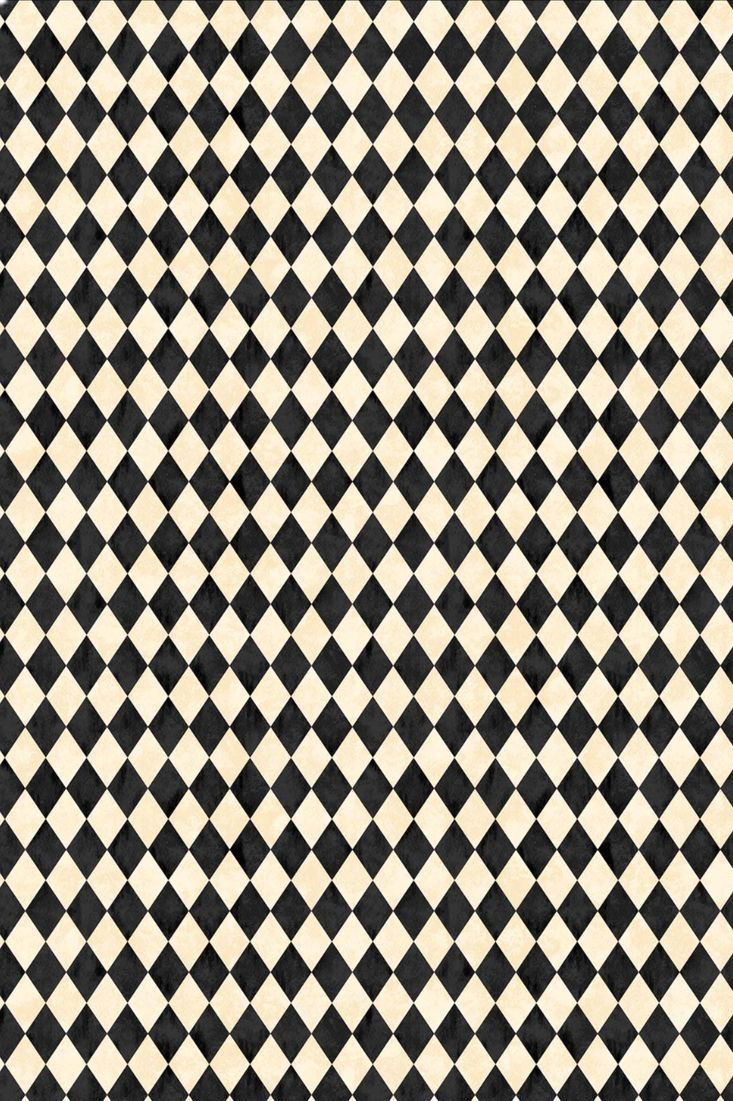
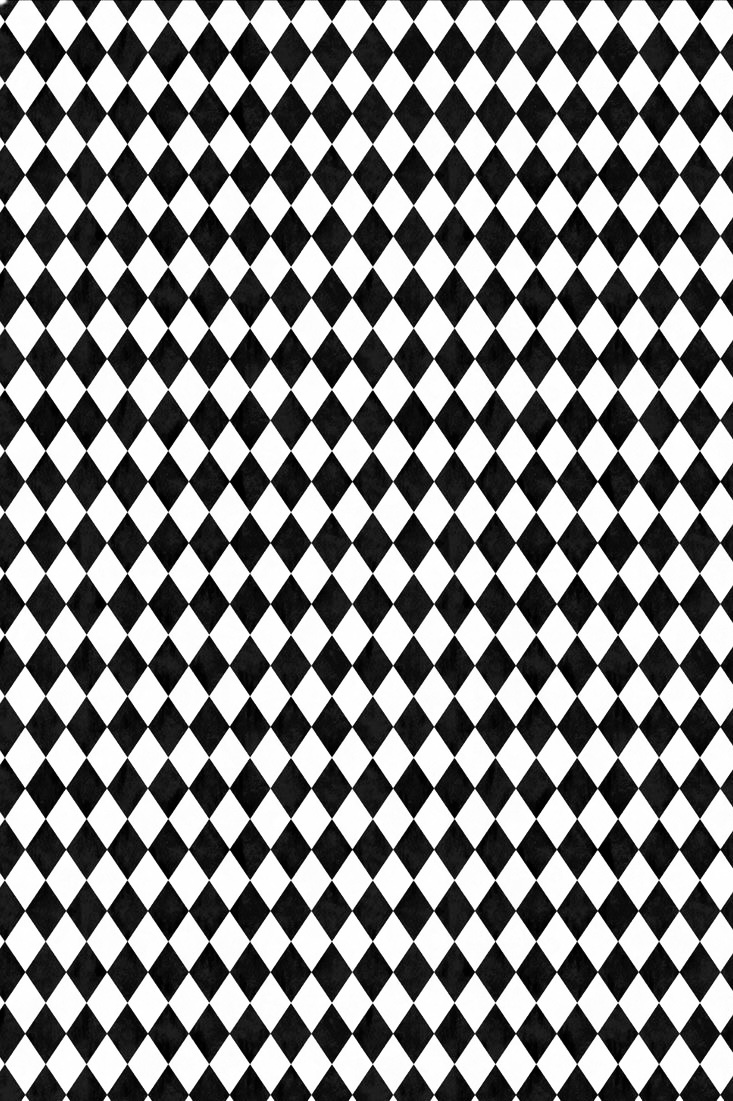
1

diff --git a/index.html b/index.html
@@ -8,7 +8,7 @@
 </head>
 <body>
     <div class="image-container"></div>
-        <img src="./images/title_img.heic" class="title">
+        <img src="./images/title_img.JPEG" class="title">
         <img src="./schrift/fuck.png" class="fuck">
     </div>
     <img src="./images/karomuster.JPG" class="karomuster">

diff --git a/style.css b/style.css
@@ -5,7 +5,7 @@
 
 .title {
     display: block;
-    width:100vw;
+    width:100%;
     margin:none;
 }
 